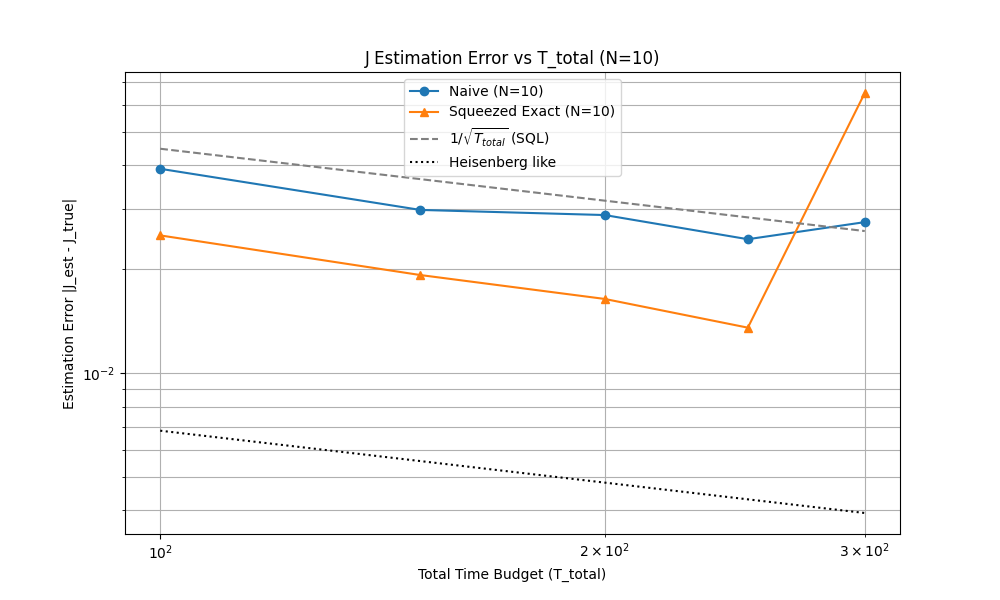
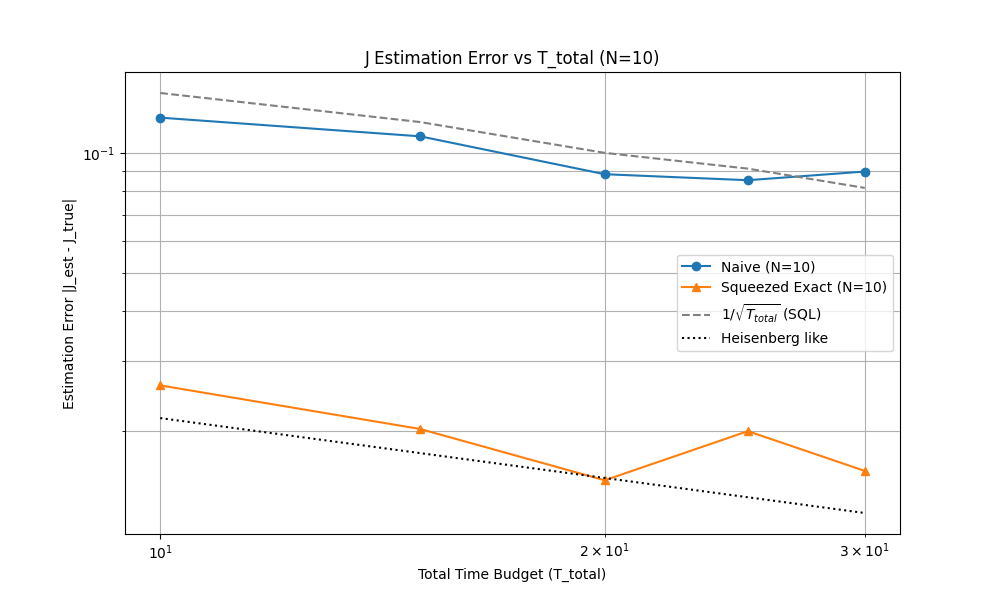
.

diff --git a/estimator.py b/estimator.py
@@ -172,7 +172,7 @@ def run_comparison():
 
     
     # T_total sweep configuration
-    T_TOTAL_SWEEP = np.array([100 , 150, 200, 250, 300])
+    T_TOTAL_SWEEP = np.array([10 , 15, 20, 25, 30])
     N_val = 10  # Fixed N for the sweep
 
     avg_err_naive = []
@@ -198,7 +198,7 @@ def run_comparison():
         times_naive = np.linspace(0, T_MAX, STEPS)
         # opt_time = 2 / (np.sqrt(2 * (N_val - 2)) * J_TRUE**2)
         times_squeezed = np.linspace(0, T_squeezed, STEPS)
-        times_squeezed = np.array([0.06]) #debug
+        # times_squeezed = np.array([0.06]) #debug
         probs_naive = get_naive_probs(N_val, times_naive, J_TRUE) 
         
         # Squeezed: Depends heavily on N